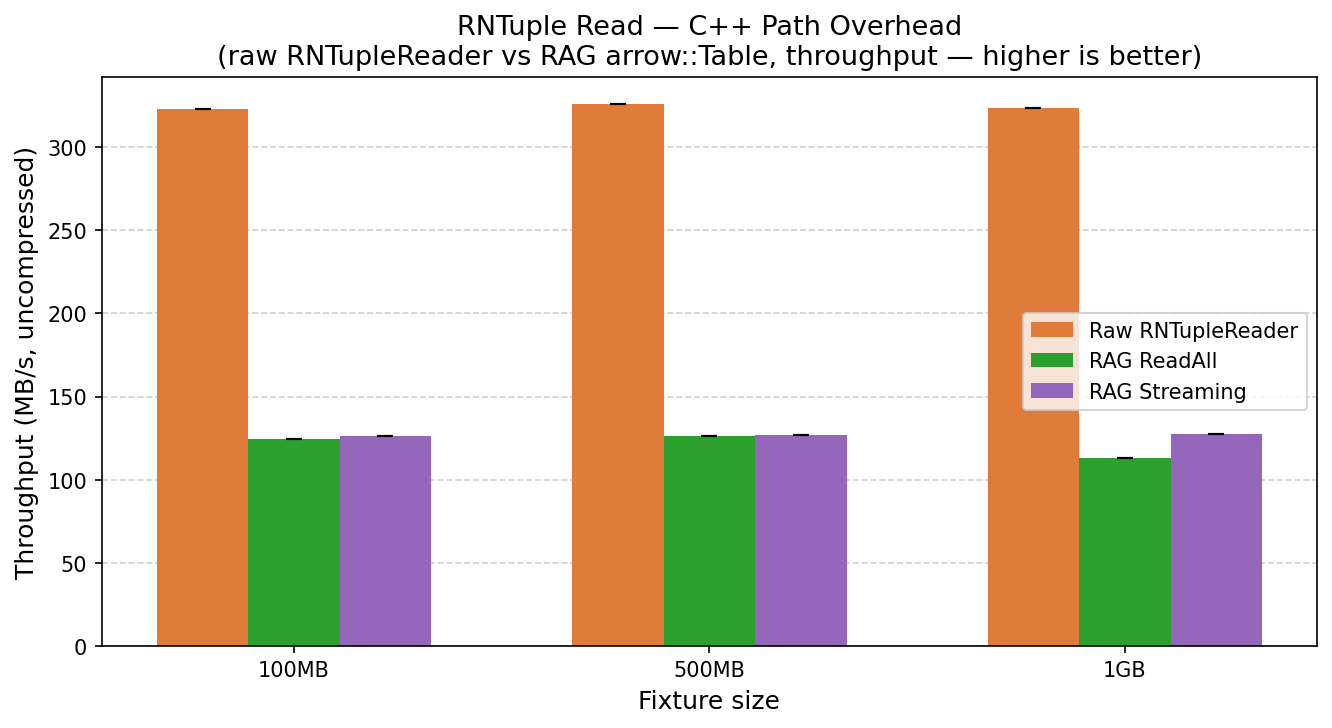
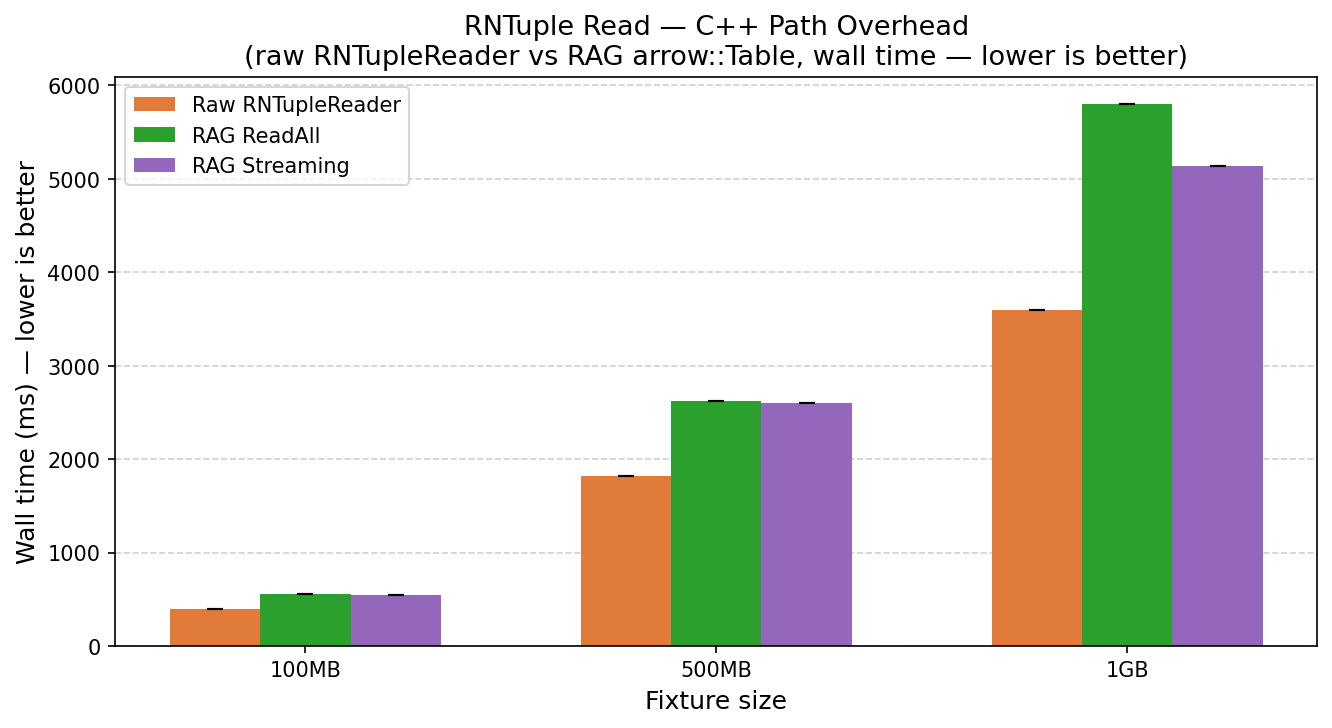
fix(benchmark): fix empty 1GB bars and switch C++ plot to wall time

diff --git a/benchmark/plot_results.py b/benchmark/plot_results.py
@@ -84,13 +84,15 @@ def plot_python_throughput():
         errs[r["method"]][r["size"]] = float(r["stdev_s"]) * float(r["throughput_MBps"]) \
                                         / max(float(r["median_s"]), 1e-9)
 
-    x = np.arange(len(SIZE_ORDER))
+    sizes_present = [s for s in SIZE_ORDER if any(s in data[m] for m in methods)]
+
+    x = np.arange(len(sizes_present))
     offsets = np.linspace(-(len(methods)-1)/2, (len(methods)-1)/2, len(methods)) * BAR_WIDTH
 
     fig, ax = plt.subplots(figsize=(9, 5))
     for i, method in enumerate(methods):
-        vals = [data[method].get(s, 0) for s in SIZE_ORDER]
-        erv  = [errs[method].get(s, 0) for s in SIZE_ORDER]
+        vals = [data[method].get(s, 0) for s in sizes_present]
+        erv  = [errs[method].get(s, 0) for s in sizes_present]
         ax.bar(x + offsets[i], vals, BAR_WIDTH,
                label=LABELS.get(method, method),
                color=COLORS.get(method, "#888"),
@@ -101,7 +103,7 @@ def plot_python_throughput():
     ax.set_title("RNTuple Read Throughput — Python Path\n"
                  "(uproot ak→arrow vs RAG pybind11)", fontsize=13)
     ax.set_xticks(x)
-    ax.set_xticklabels(SIZE_ORDER)
+    ax.set_xticklabels(sizes_present)
     ax.legend(fontsize=10)
     ax.yaxis.grid(True, linestyle="--", alpha=0.6)
     ax.set_axisbelow(True)
@@ -122,39 +124,24 @@ def plot_cpp_overhead():
     data = defaultdict(dict)
     errs = defaultdict(dict)
 
+    # Always use wall time: the three benchmarks count bytes differently
+    # (RawRNTuple counts raw field bytes; RAG counts Arrow buffer bytes including
+    # offsets and validity bitmaps), so MB/s comparisons across them are misleading.
+    # Wall time is the apples-to-apples metric for overhead.
     for bm in benchmarks:
         name = bm.get("name", "")
-        # name format: BM_RawRNTuple/0/min_time:5.000_mean
         for bm_key in bm_names:
             base = bm_key.replace("_mean", "")
             if name.startswith(base + "/") and name.endswith("_mean"):
-                # extract arg: first segment after base/
-                rest = name[len(base)+1:]          # e.g. "0/min_time:5.000_mean"
-                arg = rest.split("/")[0]           # e.g. "0"
+                rest = name[len(base)+1:]
+                arg  = rest.split("/")[0]
                 size = label_map.get(arg, arg)
-                bps = float(bm.get("bytes_per_second", 0))
-                data[bm_key][size] = bps / 1e6
-                errs[bm_key][size] = 0.0
+                ms = float(bm.get("real_time", 0))
+                data[bm_key][size] = ms
+                errs[bm_key][size] = float(bm.get("real_time_cv", 0)) * ms / 100.0
 
-    # If bytes_per_second unavailable, use wall time
-    if not any(data.values()):
-        for bm in benchmarks:
-            name = bm.get("name", "")
-            for bm_key in bm_names:
-                base = bm_key.replace("_mean", "")
-                if name.startswith(base + "/") and name.endswith("_mean"):
-                    rest = name[len(base)+1:]
-                    arg  = rest.split("/")[0]
-                    size = label_map.get(arg, arg)
-                    ms = float(bm.get("real_time", 0))
-                    data[bm_key][size] = ms
-                    errs[bm_key][size] = float(bm.get("real_time_cv", 0)) * ms / 100.0
-
-        y_label = "Wall time (ms)"
-        title_suffix = "wall time — lower is better"
-    else:
-        y_label = "Throughput (MB/s, uncompressed)"
-        title_suffix = "throughput — higher is better"
+    y_label = "Wall time (ms) — lower is better"
+    title_suffix = "wall time — lower is better"
 
     sizes_present = [s for s in SIZE_ORDER if any(s in data[k] for k in bm_names)]
     if not sizes_present:
@@ -202,13 +189,15 @@ def plot_flight_overhead():
         errs[r["method"]][r["size"]] = float(r["stdev_s"]) * float(r["throughput_MBps"]) \
                                         / max(float(r["median_s"]), 1e-9)
 
-    x = np.arange(len(SIZE_ORDER))
+    sizes_present = [s for s in SIZE_ORDER if any(s in data[m] for m in methods)]
+
+    x = np.arange(len(sizes_present))
     offsets = np.linspace(-(len(methods)-1)/2, (len(methods)-1)/2, len(methods)) * BAR_WIDTH
 
     fig, ax = plt.subplots(figsize=(9, 5))
     for i, method in enumerate(methods):
-        vals = [data[method].get(s, 0) for s in SIZE_ORDER]
-        erv  = [errs[method].get(s, 0) for s in SIZE_ORDER]
+        vals = [data[method].get(s, 0) for s in sizes_present]
+        erv  = [errs[method].get(s, 0) for s in sizes_present]
         ax.bar(x + offsets[i], vals, BAR_WIDTH,
                label=LABELS.get(method, method),
                color=COLORS.get(method, "#888"),
@@ -219,7 +208,7 @@ def plot_flight_overhead():
     ax.set_title("Arrow Flight gRPC Overhead\n"
                  "(RAG in-process vs RAG Flight localhost)", fontsize=13)
     ax.set_xticks(x)
-    ax.set_xticklabels(SIZE_ORDER)
+    ax.set_xticklabels(sizes_present)
     ax.legend(fontsize=10)
     ax.yaxis.grid(True, linestyle="--", alpha=0.6)
     ax.set_axisbelow(True)
